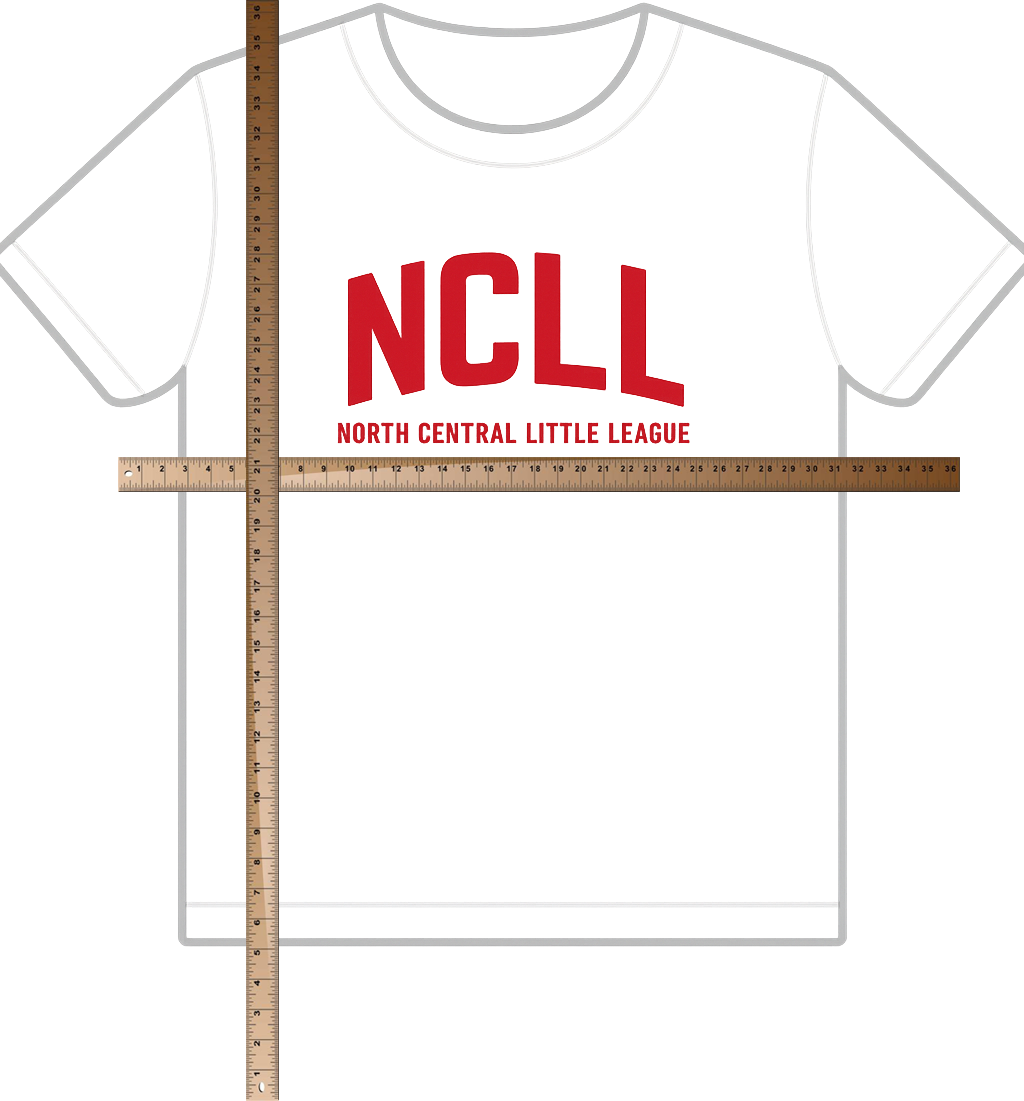
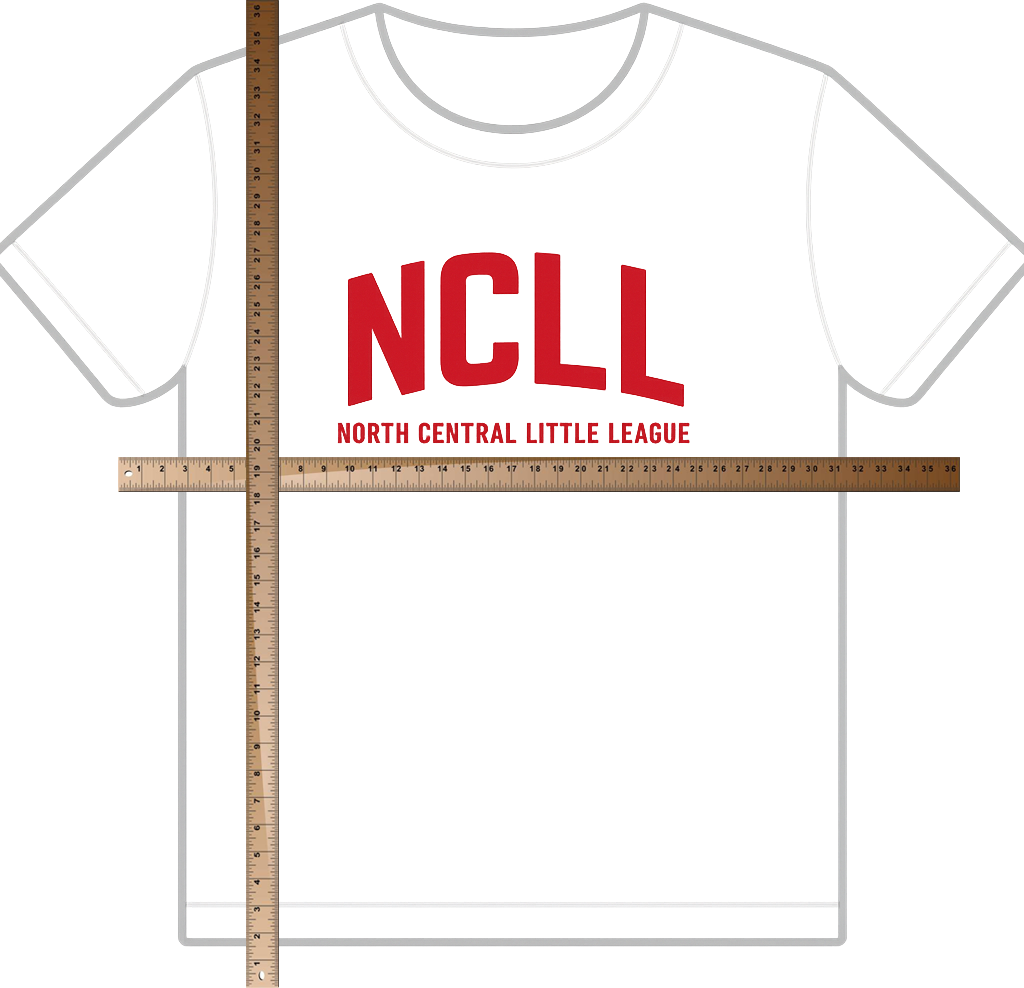
Update pit-to-pit measurement images and adjust sizing for clarity

diff --git a/Parents/index.html b/Parents/index.html
@@ -69,9 +69,9 @@
 					<div class="ncll-card__body panel panel1">
 						<div class="ncll-card__details">
 							<div class="ncll-card__graphics ncll-card__graphics--inline">
-								<img class="ncll-card__graphic measurement" src="https://ncllball.github.io/images/uniforms/hats/pit-to-pit.png" alt="Pit-to-pit measurement diagram" />
+								<img class="ncll-card__graphic measurement" src="https://ncllball.github.io/images/uniforms/hats/template.png" alt="Pit-to-pit measurement diagram" />
 							</div>
-							<h4 class="left">Players Shirt &mdash; YST350 &mdash; pit-to-pit</h4>
+							<h4 class="left">Players Shirt &mdash; YST350</h4>
 							<div class="ncll-micro">
 								<table class="ncll-micro__table" aria-describedby="yst350-caption">
 									<caption id="yst350-caption" class="sr-only">YST350 youth shirt measurements: size,
@@ -130,9 +130,9 @@
 					<div class="ncll-card__body panel panel3">
 						<div class="ncll-card__details">
 							<div class="ncll-card__graphics ncll-card__graphics--inline">
-								<img class="ncll-card__graphic measurement" src="https://ncllball.github.io/images/uniforms/hats/pit-to-pit.png" alt="Pit-to-pit measurement diagram" />
+								<img class="ncll-card__graphic measurement" src="https://ncllball.github.io/images/uniforms/hats/template.png" alt="Pit-to-pit measurement diagram" />
 							</div>
-							<h4 class="left">Coaches Shirt &mdash; ST350 &mdash; pit-to-pit</h4>
+							<h4 class="left">Coaches Shirt &mdash; ST350</h4>
 							<div class="ncll-micro">
 								<table class="ncll-micro__table" aria-describedby="st350-tball-coach-caption">
 									<caption id="st350-tball-coach-caption">
@@ -994,7 +994,7 @@
 					<div class="ncll-card__body panel panel1">
 						<div class="ncll-card__details">
 							<div class="ncll-card__graphics ncll-card__graphics--inline">
-								<img class="ncll-card__graphic measurement" src="https://ncllball.github.io/images/uniforms/hats/pit-to-pit.png" alt="Pit-to-pit measurement diagram" />
+								<img class="ncll-card__graphic measurement" src="https://ncllball.github.io/images/uniforms/hats/template.png" alt="Pit-to-pit measurement diagram" />
 							</div>
 							<h4 class="left">Players Size Chart &mdash; 4408 Jersey</h4>
 							<div class="ncll-micro">
@@ -1261,7 +1261,7 @@
 					<div class="ncll-card__body panel panel1">
 						<div class="ncll-card__details">
 							<div class="ncll-card__graphics ncll-card__graphics--inline">
-								<img class="ncll-card__graphic measurement" src="https://ncllball.github.io/images/uniforms/hats/pit-to-pit.png" alt="Pit-to-pit measurement diagram" />
+								<img class="ncll-card__graphic measurement" src="https://ncllball.github.io/images/uniforms/hats/template.png" alt="Pit-to-pit measurement diagram" />
 							</div>
 							<h4 class="left">Players Size Chart &mdash; 4408 Jersey</h4>
 							<div class="ncll-micro">

diff --git a/css.css b/css.css
@@ -2817,5 +2817,5 @@ details.footies[open] summary::before {
 }
 
 .measurement {
-        width: 200px;
+        width: 150px;
 }
